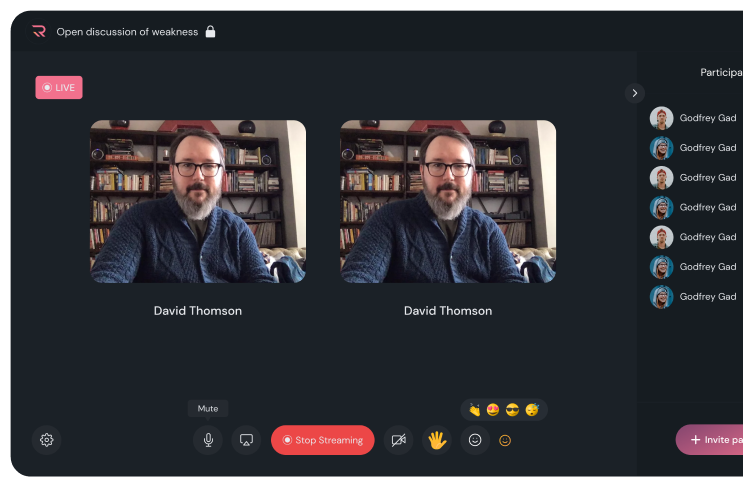
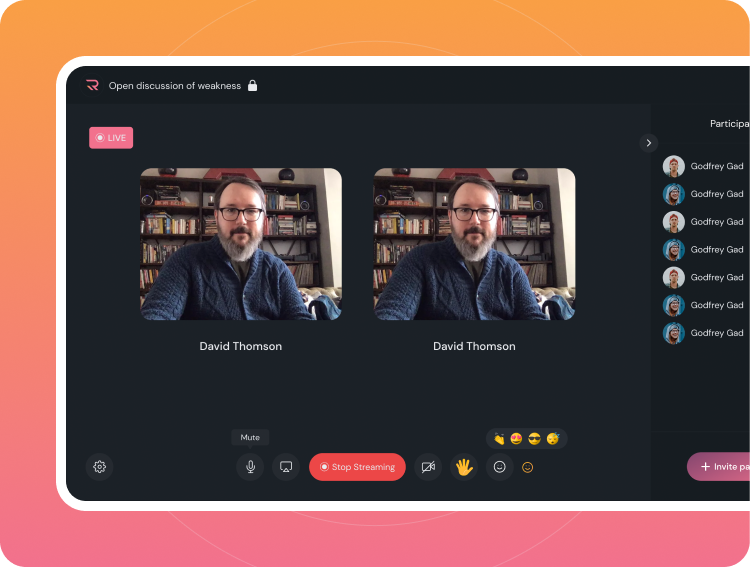
Sign up remaing pages done

diff --git a/src/Components/Auth/SignupwithCredentials.js b/src/Components/Auth/SignupwithCredentials.js
@@ -3,6 +3,8 @@ import React, { useEffect, useState } from "react";
 import { Link, useLocation, useNavigate } from "react-router-dom";
 import DateInputBox from "../../Sharedcomponents/DateInputBox";
 import classes from "./Signup.module.css";
+import mainlogo from "../../Assets/Images/svg/rawcaster_logo.svg";
+import mainlogowhite from "../../Assets/Images/svg/logo-white.svg";
 import SignupwithMobileImg from "../../Assets/Images/png/signupwithmobile-intro.png";
 import SignupwithEmailImg from "../../Assets/Images/png/signupwithemail-intro.png";
 import RawcasterLogo from "../../Assets/Images/png/r_logo.png";
@@ -31,7 +33,7 @@ const SignupwithCredentials = () => {
     if (pathname.includes("signupwithemail")) {
       return {
         id: 1,
-        title: "Email",
+        title: "Email Address",
         instead: "Phone Number",
         pathname: "/signupwithmobile",
         image: SignupwithMobileImg,
@@ -144,6 +146,11 @@ const SignupwithCredentials = () => {
   return (
     <>
       <div className={classes.loginbg}>
+        <div className={classes.mobHeader}>
+          <Link to="/home">
+            <img src={mainlogowhite}  />
+          </Link>
+        </div>
         <div className={classes.loginSec}>
           <div className={classes.loginBox}>
             <Link>
@@ -242,6 +249,7 @@ const SignupwithCredentials = () => {
                   <p className="ErrTxt">{errors?.date_of_birth}</p>
                 )}
               </Form.Item>
+              <p className={classes.termText}>By Signing up you agree with Rawcaster's <Link>terms and conditions</Link></p><br/>
               <Form.Item>
                 <Button block htmlType="submit" className={classes.btn}>
                   Join Rawcaster Family
@@ -271,12 +279,10 @@ const SignupwithCredentials = () => {
         </div>
 
         <div
-          className={`${classes.sliderSec} ${classes.rightSec} ${classes.signupSec}`}
+          className={`${classes.sliderSec} ${classes.rightSec}`}
         >
-          <div className={classes.contentBox}>
-            <div className={classes.signupImgSec}>
+          <div className={`${classes.contentBox} ${classes.stickypart}`}>
               <img src={getLoginType().image} />
-            </div>
             <h2>Connect Share Express</h2>
             <h4>
               with Rawcaster Influencers, bloggers, writers, photographers can

diff --git a/src/Components/Auth/Signup.module.css b/src/Components/Auth/Signup.module.css
@@ -8,18 +8,18 @@
   font-family: 'DM Sans', sans-serif;
 }
 .loginSec { width: 50%; display: flex; margin-top: 40px; }
-.sliderSec { width: 50%; margin-top: 40px; background: linear-gradient(155.44deg, #F99F47 6.16%, #F3748A 92.32%); justify-content: center;
+.sliderSec { width: 50%; margin-top: 40px; background: linear-gradient(155.44deg, #F99F47 6.16%, #F3748A 92.32%); justify-content: top;
    display: flex;  flex-direction: column; align-items: center;
    text-align: center;
    padding:10px 20px; }
 .rightSec {
    background: #fff !important;
 }
+.rightSec img { max-width: 90%;}
 .signupImgSec {
    background: linear-gradient(155.44deg, #F99F47 6.16%, #F3748A 92.32%);
    border-radius: 44.61px; 
 }
-
 .sliderSec .contentBox { max-width: 540px; }
 .sliderSec .contentBox img { width: 100%; }
 .sliderSec .contentBox h2 { color: #fff; font-family: 'Gilroy-Bold'; font-size: 28px; margin-top: 15px; }
@@ -30,13 +30,7 @@
 .rightSec .contentBox h2 {
    margin-top: 30px;
 }
-
-.signupSec img {
-   padding-left: 50px;
-   padding-top: 50px;
-   padding-bottom: 20px;
- 
-}
+.stickypart { top: 25%; position: sticky;}
 .hintTxt {
    font-size: 13px;
    line-height: 21px;
@@ -71,10 +65,9 @@ height: 52px; background: #fff; border-radius: 7px; border: 1px solid #E8EAEE; m
 .changeTxt {
    font-size: 12px;
    line-height: 10px;
-   margin: 10px 0;
+   margin: 5px 0 -10px 0;
    color: #F2718D;
    cursor: pointer;
-
    font-weight: 500;
 }
 .validateBtn {
@@ -98,10 +91,10 @@ p.label { font-family: 'DM Sans', sans-serif; color: #1D1C1C !important; font-si
 .fwgpsw .right { float: right; }
 .fwgpsw .ant-checkbox + span { font-size: 14px !important; font-weight: 500; color: #121F3F; }
 
-.dntacc { margin-top: 10px; font-size: 17px; color: #9BA0AA; font-family: 'DM Sans', sans-serif; }
+.dntacc { margin-top: 5px; font-size: 16px; color: #9BA0AA; font-family: 'DM Sans', sans-serif; font-weight: 300; }
 .dntacc span { color:#E26386 !important; font-weight: 500; cursor: pointer;margin-left: 5px; }
 .dntacc span a { color:#E26386 !important; text-decoration: none; }
-
+.termText a { text-decoration: none; color:#E26386; }
 .mt20 { margin-top: 20px; }
 .copyright { margin-top: 30px; color: #9BA0AA; }
 .copyright img { float: left; width: 45px; margin-right: 10px; }

diff --git a/src/App.css b/src/App.css
@@ -49,3 +49,4 @@ height: 45px; background: #fff; border-radius: 7px; border: 1px solid #E8EAEE; }
 .dashboardContainer {
   margin-top: 80px;
 }
+.ant-form-item { margin-bottom: 20px !important;}
